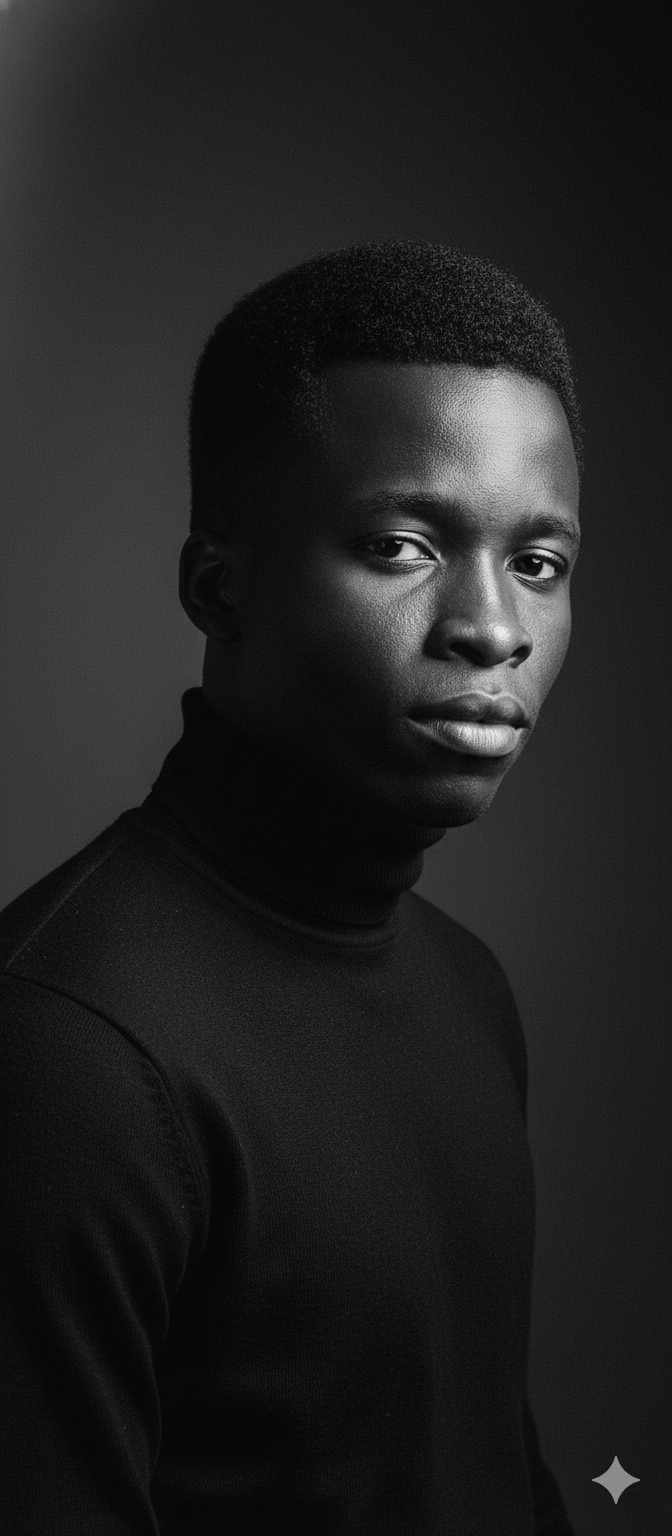
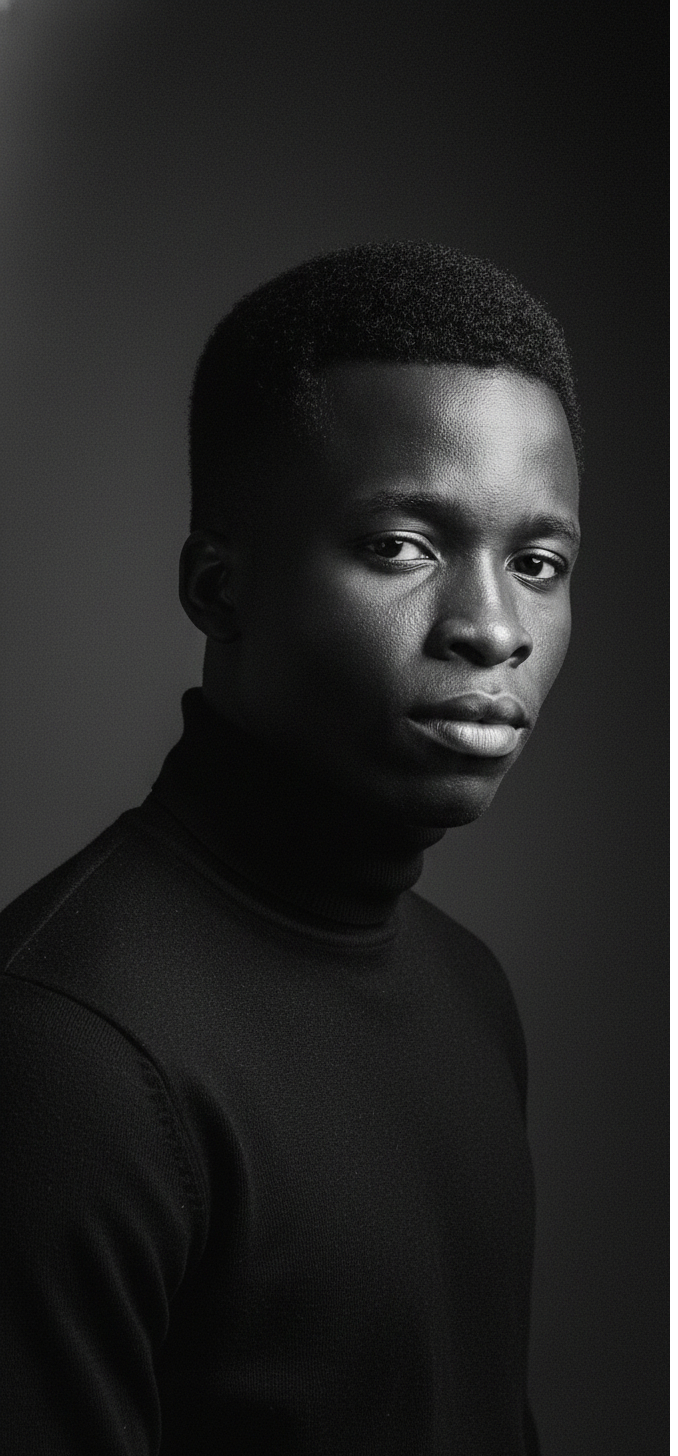
Info Update

diff --git a/frontend/src/utils/constants.ts b/frontend/src/utils/constants.ts
@@ -35,14 +35,28 @@ export const SOCIAL_LINKS: SocialLink[] = [
 
 // Skills Data
 export const SKILLS: Skill[] = [
-  { name: 'AI Engineering', percentage: 80, category: 'ai' },
-  { name: 'Graphic Design', percentage: 70, category: 'graphics' },
+  { name: 'OpenAI API / LLMs', percentage: 80, category: 'ai' },
+  { name: 'Typescript', percentage: 82, category: 'ai' },
+  { name: 'Python', percentage: 52, category: 'ai' },
+  { name: 'Natural Language Processing (NLP)', percentage: 50, category: 'ai' },
+  { name: 'Canva', percentage: 80, category: 'graphics' },
+  { name: 'Adobe Photoshop', percentage: 62, category: 'graphics' },
+  { name: 'CorelDRAW', percentage: 50, category: 'graphics' },
   { name: 'React.js', percentage: 75, category: 'fullstack' },
   { name: 'Vue.js', percentage: 95, category: 'fullstack' },
+  { name: 'Next.js', percentage: 60, category: 'fullstack' },
+  { name: 'Express.js', percentage: 90, category: 'fullstack' },
+  { name: 'JavaScript', percentage: 95, category: 'fullstack' },
+  { name: 'MongoDB', percentage: 88, category: 'fullstack' },
+  { name: 'PostgreSQL', percentage: 85, category: 'fullstack' },
+  { name: 'Firebase', percentage: 87, category: 'fullstack' },
+  { name: 'Tailwind CSS', percentage: 92, category: 'fullstack' },
+  { name: 'REST APIs', percentage: 90, category: 'fullstack' },
+  { name: 'Git & GitHub', percentage: 90, category: 'fullstack' },
   { name: 'Node.js', percentage: 95, category: 'fullstack' },
   { name: 'TypeScript', percentage: 88, category: 'fullstack' },
-  { name: 'Database Management', percentage: 82, category: 'fullstack' },
-  { name: 'Cloud Services', percentage: 80, category: 'fullstack' },
+  { name: 'Database Management', percentage: 70, category: 'fullstack' },
+  { name: 'Cloud Services', percentage: 70, category: 'fullstack' },
 ];
 
 // Services Data
@@ -53,7 +67,8 @@ export const SERVICES: Service[] = [
     description: 'Custom AI solutions to automate processes, gain insights, and drive innovation in your business.',
     icon: 'brain',
     features: [
-    //  'Natural Language Processing',
+      'Natural Language Processing',
+      'Automations',
     //  'Computer Vision',
     //  'Predictive Analytics',
       'AI Chatbots/Agents',
@@ -82,7 +97,7 @@ export const SERVICES: Service[] = [
     //  'Logo Design',
       'Marketing Materials',
       'Social Media Graphics',
-    //  'Print Design',
+      'Thumbnail design',
     ],
   },
   /*{
@@ -175,11 +190,21 @@ export const PROJECTS: Project[] = [
     liveUrl: 'https://ngozi-portfolio.vercel.app/',
     category: 'web',
   },
+  {
+    id: 7,
+    title: 'Web Portfolio Template',
+    description: 'Modern, Software Engineer responsive portfolio templates.',
+    image: '/assets/images/portfolio/Web port.png',
+    stacks: ['React', 'Tailwind CSS', 'Firebase', 'TypeScript'],
+    githubUrl: 'https://github.com/Anafuwecal/Caleb-dev',
+    liveUrl: 'https://calebana.vercel.app/about',
+    category: 'web',
+  },
 ];
 
 // Testimonials Data
 export const TESTIMONIALS: Testimonial[] = [
-  {
+  /*{
     id: 1,
     name: 'Sarah Johnson',
     position: 'CEO',
@@ -196,17 +221,17 @@ export const TESTIMONIALS: Testimonial[] = [
     quote: 'Working with Caleb was a game-changer for our product. His full-stack skills and attention to detail resulted in a flawless application.',
     logo: '/assets/images/logos/innovatelab.png',
     avatar: '/assets/images/avatars/michael.jpg',
-  },
+  },*/
   {
     id: 3,
-    name: 'Divine',
-    position: 'Marketing Director',
-    company: 'BrandWave',
+    name: 'Divine Azubuike',
+    position: 'Founder',
+    company: 'Megafrost Foods',
     quote: 'The brand identity Caleb created for us perfectly captured our vision. Creative, professional, and delivered on time!',
-    logo: '/assets/images/logos/brandwave.png',
-    avatar: '/assets/images/avatars/emily.jpg',
+    logo: '/assets/images/logo/Mega.png',
+    avatar: '/assets/images/logo/Mega.png',
   },
-  {
+ /* {
     id: 4,
     name: 'David Okonkwo',
     position: 'CTO',
@@ -223,7 +248,7 @@ export const TESTIMONIALS: Testimonial[] = [
     quote: 'From design to development, Caleb handled everything with excellence. Our platform looks amazing and performs flawlessly.',
     logo: '/assets/images/logos/creativehub.png',
     avatar: '/assets/images/avatars/lisa.jpg',
-  },
+  },*/
 ];
 
 // Contact Info

diff --git a/frontend/src/components/sections/AboutSection.tsx b/frontend/src/components/sections/AboutSection.tsx
@@ -36,7 +36,7 @@ const AboutSection: React.FC = () => {
               {/* Main Image */}
               <div className="relative z-10 rounded-2xl overflow-hidden shadow-2xl">
                 <img
-                  src="/assets/images/caleb-about.jpg"
+                  src="/assets/images/hero/herot.jpg"
                   alt="Caleb Anafuwe - About"
                   className="w-full h-auto"
                   onError={(e) => {
@@ -52,7 +52,7 @@ const AboutSection: React.FC = () => {
                 transition={{ duration: 2, repeat: Infinity }}
                 className="absolute -bottom-6 -right-6 bg-primary text-secondary p-6 rounded-xl shadow-xl z-20"
               >
-                <p className="text-3xl font-bold">5+</p>
+                <p className="text-3xl font-bold">2+</p>
                 <p className="text-sm">Years of Experience</p>
               </motion.div>
             </div>
@@ -66,9 +66,9 @@ const AboutSection: React.FC = () => {
           >
             <h2 className="heading-primary mb-6">About Me</h2>
             
-            <p className="text-grayDark text-lg mb-6">
+            <p className="font-bold text-grayDark text-lg mb-6">
               I'm Caleb Anafuwe, a passionate AI Engineer, Full-Stack Developer,
-              and Graphic Designer based in Nigeria. With over 5 years of experience,
+              and Graphic Designer based in Nigeria. With over 2 years of experience,
               I specialize in creating intelligent solutions and beautiful digital
               experiences that make a difference.
             </p>
@@ -85,9 +85,6 @@ const AboutSection: React.FC = () => {
               {/* AI Engineering Skills */}
               <div>
                 <h3 className="text-xl font-bold text-primary mb-4 flex items-center gap-2">
-                  <span className="w-8 h-8 bg-primary text-secondary rounded-lg flex items-center justify-center text-sm">
-                    🤖
-                  </span>
                   AI Engineering
                 </h3>
                 <div className="space-y-3">
@@ -105,9 +102,6 @@ const AboutSection: React.FC = () => {
               {/* Graphics Design Skills */}
               <div>
                 <h3 className="text-xl font-bold text-primary mb-4 flex items-center gap-2">
-                  <span className="w-8 h-8 bg-primary text-secondary rounded-lg flex items-center justify-center text-sm">
-                    🎨
-                  </span>
                   Graphics Design
                 </h3>
                 <div className="space-y-3">
@@ -125,9 +119,6 @@ const AboutSection: React.FC = () => {
               {/* Full-Stack Development Skills */}
               <div>
                 <h3 className="text-xl font-bold text-primary mb-4 flex items-center gap-2">
-                  <span className="w-8 h-8 bg-primary text-secondary rounded-lg flex items-center justify-center text-sm">
-                    💻
-                  </span>
                   Full-Stack Development
                 </h3>
                 <div className="space-y-3">

diff --git a/frontend/src/components/sections/HeroSection.tsx b/frontend/src/components/sections/HeroSection.tsx
@@ -23,7 +23,7 @@ const HeroSection: React.FC = () => {
               transition={{ delay: 0.2 }}
               className="text-grayDark font-medium mb-4"
             >
-              👋 Hello, I'm
+              Hello, I'm
             </motion.p>
             
             <motion.h1
@@ -105,9 +105,9 @@ const HeroSection: React.FC = () => {
               <div className="absolute -bottom-4 -right-4 w-48 h-48 md:w-64 md:h-64 bg-grayDark/10 rounded-full blur-2xl" />
               
               {/* Main Image */}
-              <div className="relative z-10 w-64 h-64 md:w-80 md:h-80 lg:w-96 lg:h-96 rounded-full overflow-hidden border-4 border-primary shadow-2xl bg-grayLight">
+              <div className="relative z-10 w-64 h-64 md:w-80 md:h-80 lg:w-96 lg:h-96 rounded-[40px] overflow-hidden border-4 border-primary shadow-2xl bg-grayLight">
                 <img
-                  src="/assets/images/caleb-hero.jpg"
+                  src="/assets/images/hero/hero-image.jpg"
                   alt="Caleb Anafuwe"
                   className="w-full h-full object-cover"
                   onError={(e) => {
@@ -117,22 +117,6 @@ const HeroSection: React.FC = () => {
                 />
               </div>
               
-              {/* Floating Elements */}
-              <motion.div
-                animate={{ y: [0, -10, 0] }}
-                transition={{ duration: 3, repeat: Infinity }}
-                className="absolute -top-6 right-0 bg-primary text-secondary px-4 py-2 rounded-lg shadow-lg"
-              >
-                <span className="text-sm font-medium">5+ Years Experience</span>
-              </motion.div>
-              
-              <motion.div
-                animate={{ y: [0, 10, 0] }}
-                transition={{ duration: 3, repeat: Infinity, delay: 1 }}
-                className="absolute -bottom-6 left-0 bg-secondary text-primary px-4 py-2 rounded-lg shadow-lg border border-primary"
-              >
-                <span className="text-sm font-medium">50+ Projects Completed</span>
-              </motion.div>
             </div>
           </motion.div>
         </div>

diff --git a/frontend/src/pages/HomePage.tsx b/frontend/src/pages/HomePage.tsx
@@ -26,13 +26,13 @@ const HomePage: React.FC = () => {
         <meta property="og:description" content="AI Engineer, Full-Stack Developer, and Graphic Designer crafting digital experiences." />
         <meta property="og:type" content="website" />
         <meta property="og:url" content="https://calebanafuwe.com" />
-        <meta property="og:image" content="https://calebanafuwe.com/assets/images/logo.svg" />
+        <meta property="og:image" content="/assets/images/logo.svg" />
         
         {/* Twitter */}
         <meta name="twitter:card" content="summary_large_image" />
         <meta name="twitter:title" content="Caleb Anafuwe | AI Engineer & Full-Stack Developer" />
         <meta name="twitter:description" content="AI Engineer, Full-Stack Developer, and Graphic Designer." />
-        <meta name="twitter:image" content="https://calebanafuwe.com/assets/images/og-image.jpg" />
+        <meta name="twitter:image" content="/assets/images/og-image.jpg" />
       </Helmet>
 
       <HeroSection />
